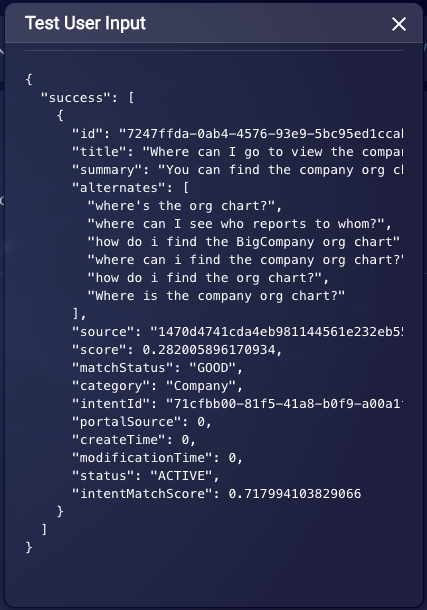
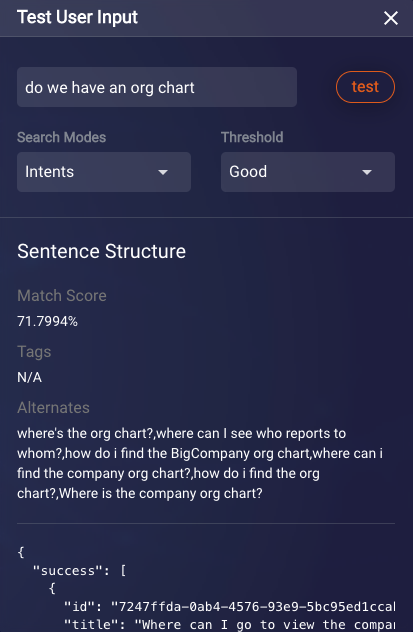
BA-3363 KB enhancements

diff --git a/pages/documents/ConversationalAI/KnowledgeBase/knowledgeBaseArticles.md b/pages/documents/ConversationalAI/KnowledgeBase/knowledgeBaseArticles.md
@@ -40,6 +40,30 @@ An article is a focused piece of content (a message) on a single topic that you 
 
 4. Click **Save**.
 
+### Test user input
+
+You can feed user input directly into a knowledge base to test the content matching.
+
+**To test user input**
+
+1. Open the knowledge base, and click <img style="width:30px" src="img/ConvoBuilder/icon_kb_test.png"> in the lower-right corner.
+
+    <img class="fancyimage" style="width:350px" src="img/ConvoBuilder/kb_testUserInput1.png">
+
+2. Specify the following:
+
+    * **Phrase**: Enter the phrase to search for.
+    * **Search Modes**: Select one of the following:
+        * *Intents*: Select this to perform an NLU-based search first, and, if no results are found, to perform a text-based search second.
+        * *Intents Only*: Select this to perform only an NLU-based search (no text-based search).
+        * *All*: Select this to perform only a text-based search (no NLU).
+
+    * **Threshold**: The knowledge base uses Natural Language Understanding (NLU) algorithms to match articles to the input phrases, and it assigns a score based on the confidence level of the match: VERY GOOD, GOOD, FAIR PLUS, FAIR, and POOR. Use this field to specify the minimum score that a result must have in order to be returned. You can select from VERY GOOD, GOOD, or FAIR PLUS. The default value is GOOD. If you downgrade the threshold to FAIR PLUS, be sure to test whether the quality of the results meets your expectations.
+
+3. Click **test**.
+
+    <img class="fancyimage" style="width:350px" src="img/ConvoBuilder/kb_testUserInput2.png">
+
 ### Find articles with a specific tag
 
 1. In the knowledge base, click <img style="width:30px" src="img/ConvoBuilder/icon_kb_tags.png"> (Tags) in the lower-right corner.

diff --git a/pages/documents/ConversationalAI/KnowledgeBase/knowledgeBases.md b/pages/documents/ConversationalAI/KnowledgeBase/knowledgeBases.md
@@ -42,13 +42,13 @@ If you want to import a set of articles into a knowledge base when you add the k
 
 #### Column headers
 
-| Column header name | Notes |
-|--------------------|-------|
+| Column header name | Description |
+|-----|-----|
 | id | An integer; usually just the row index, e.g., 1, 2, 3. <br><br>**Note**: This column isn't required when you initially create the knowledge base. However, if you're using a Google sheet that you plan to sync periodically, it does play a role then. Before performing a sync, update the Google sheet to include the "id" column and enter the IDs for all existing articles. |
 | tags | A comma-separated list of relevant keywords. |
 | title | The article title. This should be a complete sentence or question that the user might ask. |
 | summary | A short answer that's 80 characters or less. |
-| alternates | In the UI, these are called "intent qualifiers" (see [here](knowledge-base-overview.html#knowlege-base-intents-versus-domain-intents)). |
+| alternates | Applicable if you're using Knowledge Base intents, not Domain intents (see [here](knowledge-base-overview.html#knowlege-base-intents-versus-domain-intents) for an understanding of the two). In the UI, these are called "intent qualifiers." Intent qualifiers are alternative ways that people ask for the article, i.e., alternative ways to communicate the same intent. |
 | detail | A long answer that's 350 characters or less. |
 | content_url | |
 | image_url | |
